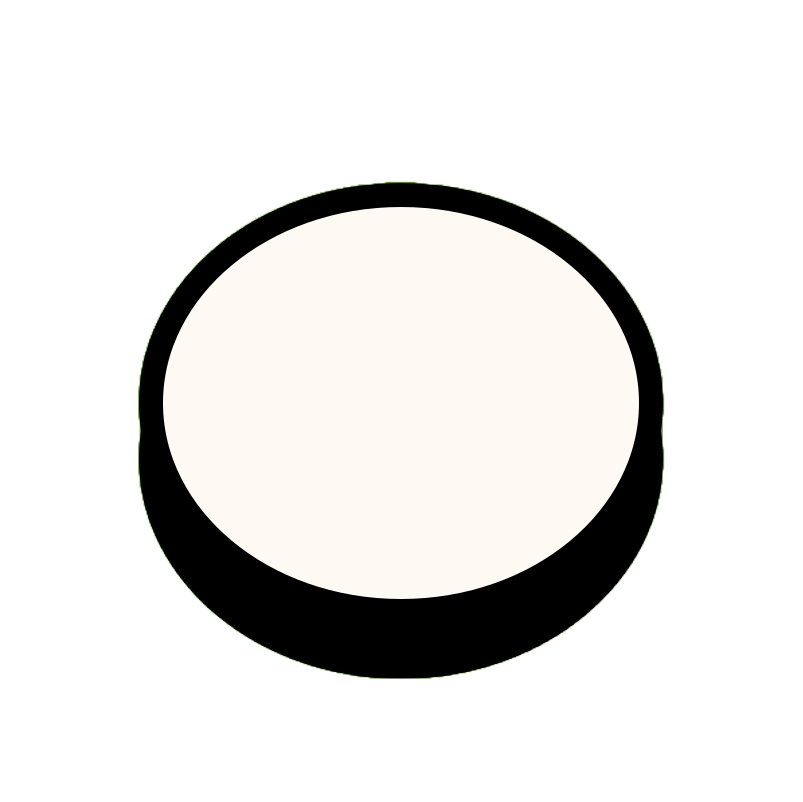
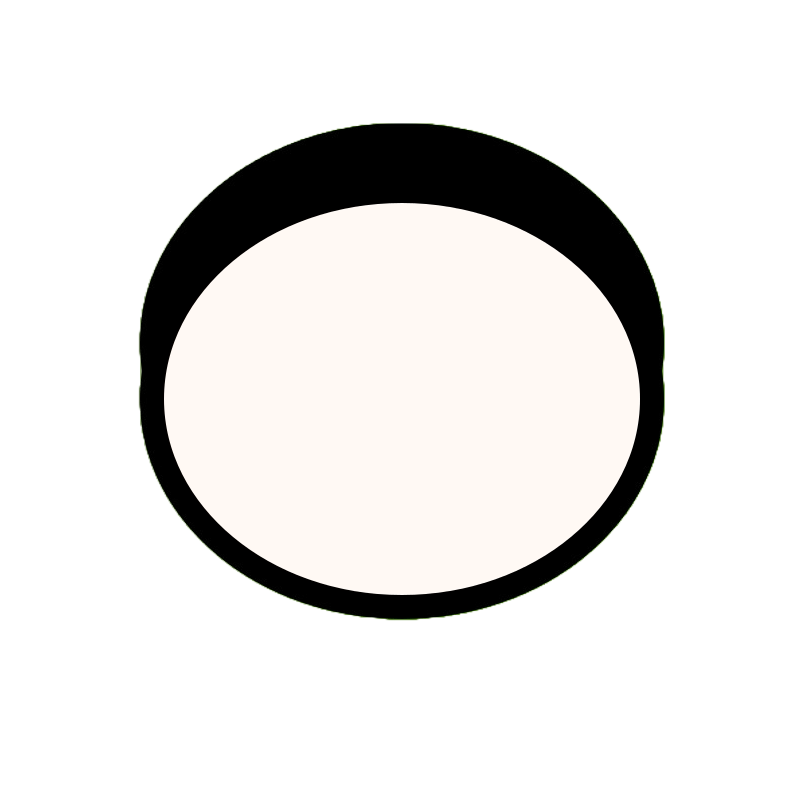
made red pieces black

Changed region(s): [[0.1557, 0.4988, 0.8406, 0.8728], [0.1557, 0.1559, 0.8406, 0.4988]]

diff --git a/src/main/java/gui/GraphicPiece.java b/src/main/java/gui/GraphicPiece.java
@@ -4,7 +4,6 @@ import javax.imageio.ImageIO;
 import javax.swing.*;
 import java.awt.*;
 import java.awt.image.BufferedImage;
-import java.io.File;
 import java.io.IOException;
 
 public class GraphicPiece extends JPanel {
@@ -12,14 +11,14 @@ public class GraphicPiece extends JPanel {
     public int xPos, yPos;
     public boolean isWhite;
 
-    BufferedImage red;
-    BufferedImage redKing;
+    BufferedImage black;
+    BufferedImage blackKing;
     BufferedImage white;
     BufferedImage whiteKing;
     {
         try {
-            red = ImageIO.read(ClassLoader.getSystemResourceAsStream("red.png"));
-            redKing = ImageIO.read(ClassLoader.getSystemResourceAsStream("redKing.png"));
+            black = ImageIO.read(ClassLoader.getSystemResourceAsStream("black.png"));
+            blackKing = ImageIO.read(ClassLoader.getSystemResourceAsStream("blackKing.png"));
             white = ImageIO.read(ClassLoader.getSystemResourceAsStream("white.png"));
             whiteKing = ImageIO.read(ClassLoader.getSystemResourceAsStream("whiteKing.png"));
         } catch (IOException e) {

diff --git a/src/main/java/gui/NormalPiece.java b/src/main/java/gui/NormalPiece.java
@@ -14,7 +14,7 @@ public class NormalPiece extends GraphicPiece{
         if(isWhite){
             this.sprite = white.getScaledInstance(GraphicBoard.tileSize, GraphicBoard.tileSize, BufferedImage.SCALE_SMOOTH);
         } else {
-            this.sprite = red.getScaledInstance(GraphicBoard.tileSize, GraphicBoard.tileSize, BufferedImage.SCALE_SMOOTH);
+            this.sprite = black.getScaledInstance(GraphicBoard.tileSize, GraphicBoard.tileSize, BufferedImage.SCALE_SMOOTH);
         }
     }
 }
